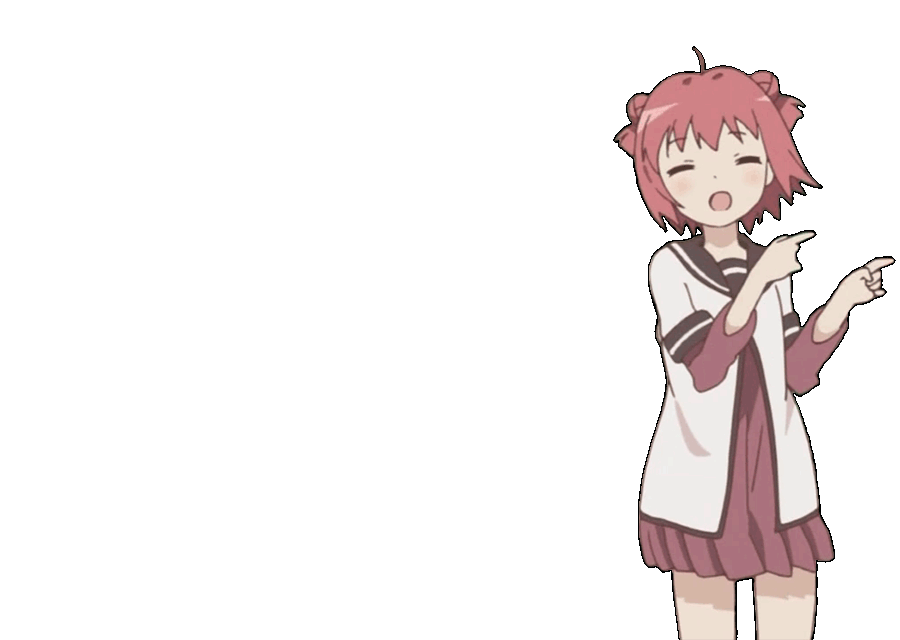
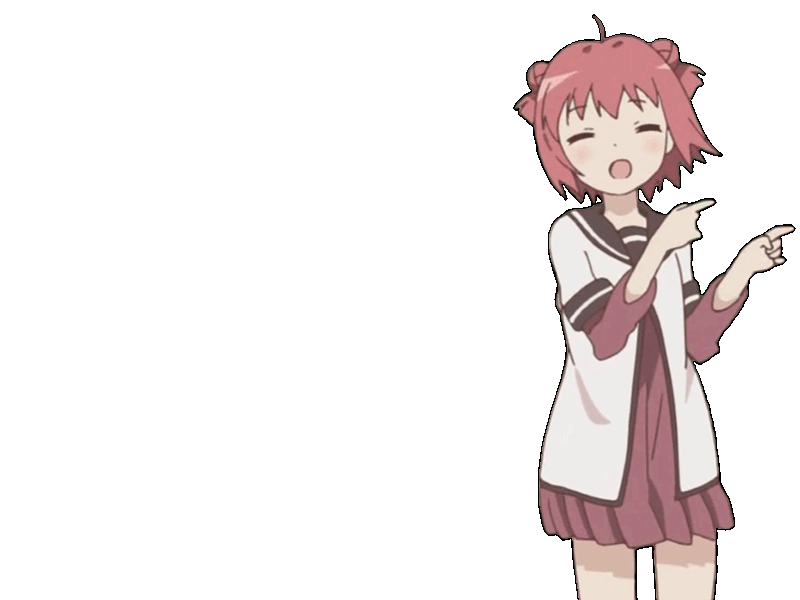
size tweaked

Changed region(s): [[0.625, 0.03, 1.0, 1.0]]

diff --git a/akari.py b/akari.py
@@ -18,7 +18,7 @@ class Akari(object):
         if text[0] == '#':
             text = ' ' + text
 
-        width, height = 900, 640
+        width, height = 800, 600
 
         filename = utils.build_path(image.hash, 'original')
         with Image(filename=filename) as original:
@@ -51,7 +51,7 @@ class Akari(object):
             draw.stroke_color = Color('#000')
             draw.stroke_width = 1
             draw.gravity = 'south'
-            draw.text(0, 0, fill(caption, 20))
+            draw.text(0, 0, fill(caption, 18))
             draw(this_frame)
 
             gif.sequence.append(this_frame)
